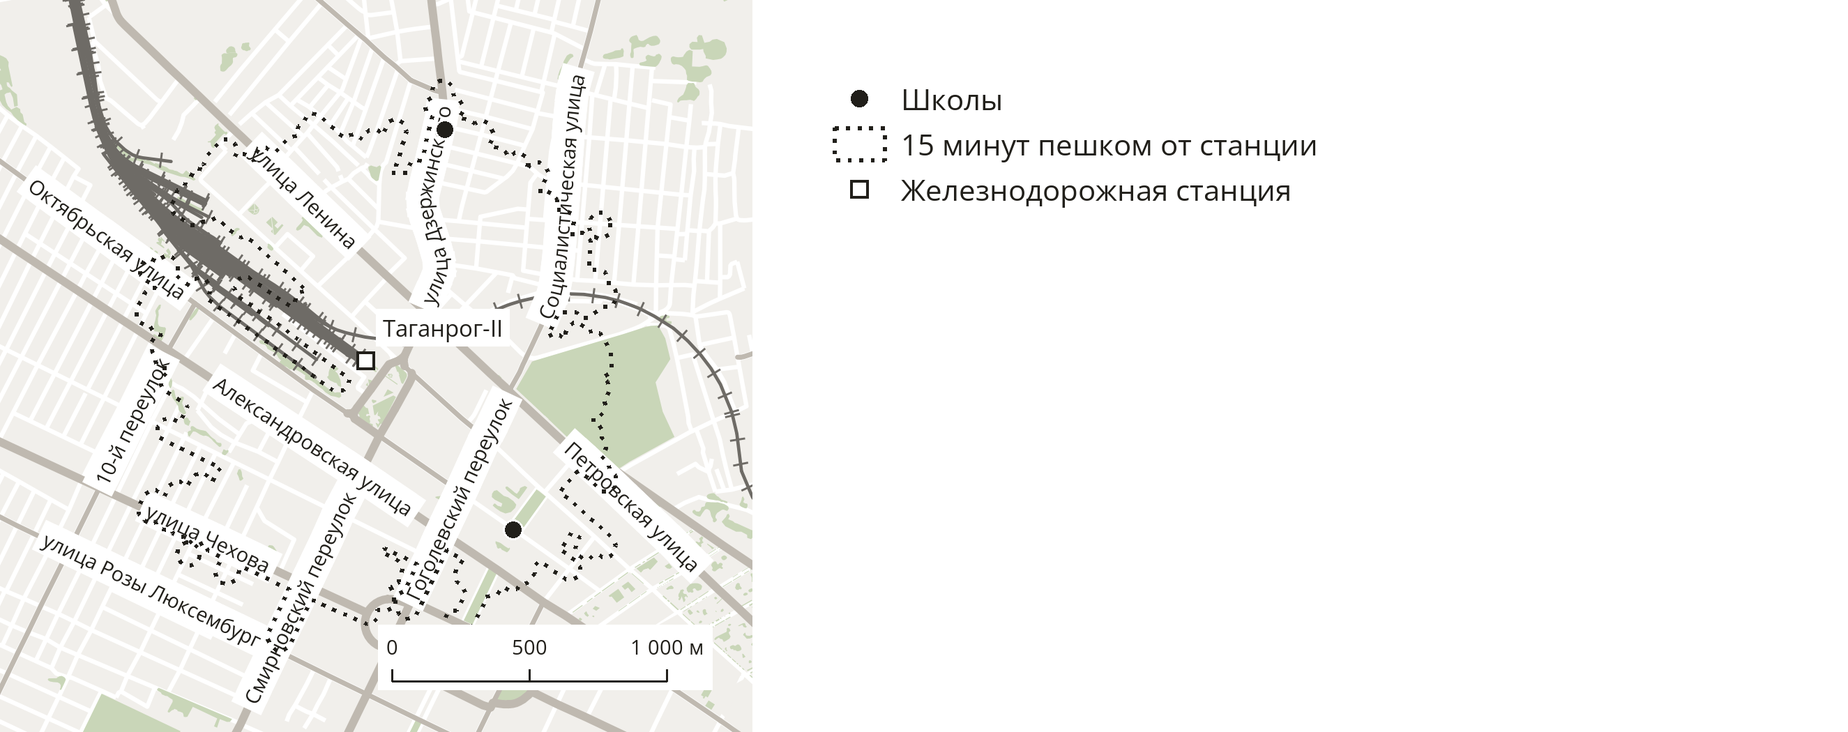
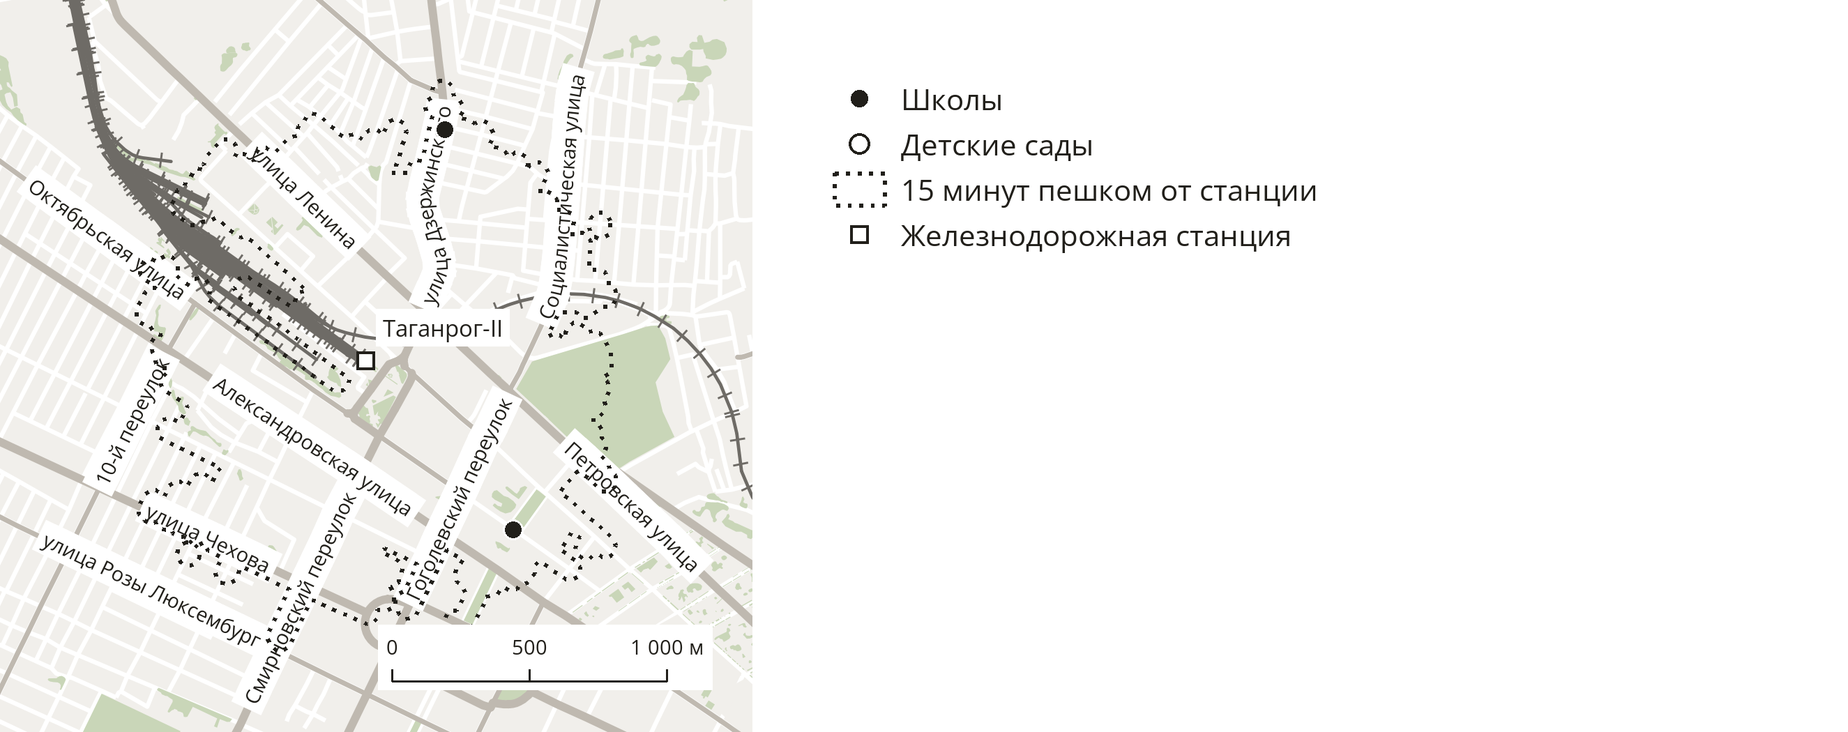
render: группа сравнения compare_with с общей легендой; образцы К1 пересобраны; К-026
Claude-Session: https://claude.ai/code/session_01LqHvzMiJYhgwxQuRYwbGJA

Changed region(s): [[0.4642, 0.3048, 0.7117, 0.3352], [0.4642, 0.2438, 0.7117, 0.2743], [0.4642, 0.1829, 0.7117, 0.2133]]

diff --git a/cm_carto/render/build.py b/cm_carto/render/build.py
@@ -231,6 +231,34 @@ def image_schema() -> dict:
     return json.loads(paths.schema("image").read_text(encoding="utf-8"))
 
 
+def frame(spec: Spec) -> QgsRectangle:
+    """Охват карты в системе координат проекта: центр, масштаб и размер места."""
+    cx, cy = spec.center
+    half_w, half_h = spec.size_mm[0] * spec.scale / 2000, spec.size_mm[1] * spec.scale / 2000
+    return QgsRectangle(cx - half_w, cy - half_h, cx + half_w, cy + half_h)
+
+
+def legend(spec: Spec, std: dict, drawn: list[Drawn]) -> list[tuple[Role, dict, list[tuple[str, str]]]]:
+    """Строки легенды: роли уровней с legend: true, нарисованные на этой карте или на соседней карте сравнения
+    (compare_with), в порядке стандарта; у ролей с категориями — категории, встреченные на картах группы, в порядке
+    стиля. У соседей — тот же отбор по их охвату, без отрисовки. Строки у карт группы одни и те же."""
+    shown = [d for d in drawn if std["levels"][d.role.level]["legend"]]
+    for other in spec.group:
+        rect = frame(other)
+        found = [vector(other, std, role, rect) for role in other.roles if std["levels"][role.level]["legend"]]
+        shown += [d for d in found if d.rows]
+    rows = []
+    for role in spec.roles:
+        mine = [d for d in shown if d.role.key == role.key]
+        if not mine:
+            continue
+        values = {value for d in mine for value, _ in d.categories()}
+        renderer = mine[0].layer.renderer()
+        categories = [(c.value(), c.label()) for c in renderer.categories() if c.value() in values] if values else []
+        rows.append((role, mine[0].spec, categories))
+    return rows
+
+
 def draw(spec: Spec, folder: Path) -> None:
     """Рендер в папку кеша: подложка PNG, provenance подложки, overlay.json."""
     start()
@@ -240,9 +268,7 @@ def draw(spec: Spec, folder: Path) -> None:
     project.setCrs(QgsCoordinateReferenceSystem.fromWkt(spec.project.crs.to_wkt()))
     layout = template(project, paths.qgis_styles() / f"map_{spec.place}.qpt")
     item = layout.itemById("map")
-    cx, cy = spec.center
-    half_w, half_h = spec.size_mm[0] * spec.scale / 2000, spec.size_mm[1] * spec.scale / 2000
-    rect = QgsRectangle(cx - half_w, cy - half_h, cx + half_w, cy + half_h)
+    rect = frame(spec)
 
     drawn = []
     for role in spec.roles:
@@ -276,7 +302,8 @@ def draw(spec: Spec, folder: Path) -> None:
     entries = {d.role.key: layer_entry(d) for d in drawn if d.role.level != "basemap"}
     bounds = (rect.xMinimum(), rect.yMinimum(), rect.xMaximum(), rect.yMaximum())
     obstacles = basemap_labels(item, rect, spec, std["export"]["dpi"])
-    data, unplaced = overlay.build(spec, std, style, drawn, entries, north, layout, bounds, spec.out.name, obstacles)
+    data, unplaced = overlay.build(spec, std, style, drawn, legend(spec, std, drawn), entries, north, layout, bounds,
+                                   spec.out.name, obstacles)
     for text in unplaced:
         print(f"{spec.path.name}: подпись не встала без наездов: {text}")
     (folder / spec.overlay_out.name).write_text(overlay.dumps(data), encoding="utf-8")
@@ -284,12 +311,13 @@ def draw(spec: Spec, folder: Path) -> None:
 
 
 def cache_key(spec: Spec) -> str:
-    """Хэш всего, от чего зависит результат: описание, анкета, геопакет, токены и стили верстки, контракт, код."""
+    """Хэш всего, от чего зависит результат: описание, анкета, геопакет (и у соседних карт сравнения — их легенда
+    зависит от соседей), токены и стили верстки, контракт, код."""
     digest = hashlib.sha256()
     design = [paths.design() / "tokens" / "map.yaml", paths.design() / "tokens" / "style.yaml",
               *sorted(p for p in paths.qgis_styles().iterdir() if p.is_file())]
-    for path in [spec.path, spec.project.root / "project.yaml", spec.data, *design, paths.schema("image"),
-                 paths.schema("overlay"), *CODE]:
+    inputs = [path for s in [spec, *spec.group] for path in (s.path, s.project.root / "project.yaml", s.data)]
+    for path in [*inputs, *design, paths.schema("image"), paths.schema("overlay"), *CODE]:
         digest.update(path.name.encode())
         digest.update(hashlib.sha256(path.read_bytes()).digest())
     digest.update(Qgis.version().encode())

diff --git a/tests/test_render_map.py b/tests/test_render_map.py
@@ -277,3 +277,49 @@ def test_within_unknown_object_is_refused(project):
     layers["point_1"]["within"] = "isochrones:walk-99"
     with pytest.raises(ValueError, match="объект isochrones:walk-99: в project.gpkg найдено 0, нужен один"):
         build.render(describe(project, "unknown", layers=layers))
+
+
+def compare_pair(project, prefix: str, **changes_b) -> tuple:
+    """Две карты сравнения: у a сады в охвате есть, у b отбор садов пустой; compare_with друг на друга."""
+    layers = yaml.safe_load(describe(project).read_text(encoding="utf-8"))["layers"]
+    layers["point_2"] = {"layer": "poi_education", "where": "poi_type = 'kindergarten'", "title": "Детские сады"}
+    empty = {**layers, "point_2": {**layers["point_2"], "where": "poi_type = 'kindergarten' AND name = 'нет'"}}
+    a = describe(project, f"{prefix}a", layers=layers, compare_with=[f"{prefix}b.yaml"])
+    b = describe(project, f"{prefix}b", layers=empty, compare_with=[f"{prefix}a.yaml"], **changes_b)
+    return a, b
+
+
+def test_compare_group_shares_legend(project):
+    """Сравнение: у b садов 0, но строка «Детские сады» в легенде обеих карт; строки легенды — байт в байт."""
+    for path in compare_pair(project, "cmp-"):
+        build.render(path)
+    a, b = side(project, "cmp-a", ".overlay.json"), side(project, "cmp-b", ".overlay.json")
+    assert "point_2" in [item["id"] for item in a["layers"]]
+    assert "point_2" not in [item["id"] for item in b["layers"]]
+    assert "Детские сады" in [row["text"] for row in layer(b, "legend")["legend"]]
+    text = {name: (project / "maps" / f"cmp-{name}.overlay.json").read_text(encoding="utf-8") for name in "ab"}
+    legend = {name: text[name][text[name].index('"legend": ['):].split("]", 1)[0] for name in "ab"}
+    assert legend["a"] == legend["b"]
+
+
+def test_compare_group_scale_mismatch_is_refused(project):
+    a, _ = compare_pair(project, "scale-", scale=20000)
+    with pytest.raises(ValueError, match="сравнение с scale-b.yaml: масштаб 10000 против 20000"):
+        build.render(a)
+
+
+def test_compare_group_repeat_is_byte_identical_and_follows_neighbor(project, tmp_path, capsys, monkeypatch):
+    """Карта группы в двух процессах — байт в байт; смена описания соседа — новая сборка, не кеш."""
+    a, b = compare_pair(project, "rep-")
+    outputs = []
+    for run in ("1", "2"):
+        subprocess.run([sys.executable, "-c", RENDER, str(tmp_path / f"cache{run}"), str(a)], check=True)
+        outputs.append([(project / "maps" / f"rep-a{suffix}").read_bytes() for suffix in (".png", ".overlay.json")])
+    assert outputs[0] == outputs[1]
+    monkeypatch.setattr(build, "CACHE", tmp_path / "cache1")
+    build.render(a)
+    assert "из кеша" in capsys.readouterr().out
+    b.write_text(b.read_text(encoding="utf-8").replace("Школы у границы", "Школы у границы, вариант"),
+                 encoding="utf-8")
+    build.render(a)
+    assert "из кеша" not in capsys.readouterr().out

diff --git a/cm_carto/render/overlay.py b/cm_carto/render/overlay.py
@@ -219,17 +219,18 @@ class Overlay:
 
     # Служебные слои
 
-    def legend_layer(self, drawn: list, entries: dict) -> dict:
-        """Строки легенды: роли уровней с legend: true в порядке стандарта; категории — встреченные на карте."""
+    def legend_layer(self, items: list, entries: dict) -> dict:
+        """Строки легенды: items — (роль, роль map.yaml, категории) в порядке стандарта (build.legend: у карт
+        сравнения — общие на группу); у роли с категориями — строка на категорию."""
         rows = []
-        for d in (d for d in drawn if self.std["levels"][d.role.level]["legend"]):
-            kind = d.spec["geometry"]
-            if d.role.key == "zoning":
-                rows += [{"role": f"zoning.{value}", "kind": kind, "text": title} for value, title in d.categories()]
+        for role, spec_role, categories in items:
+            kind = spec_role["geometry"]
+            if role.key == "zoning":
+                rows += [{"role": f"zoning.{value}", "kind": kind, "text": title} for value, title in categories]
                 continue
-            row = {"role": d.role.key, "kind": kind, "text": d.role.title}
+            row = {"role": role.key, "kind": kind, "text": role.title}
             if kind == "point":
-                row["symbol"] = d.spec["marker"]["shape"]
+                row["symbol"] = spec_role["marker"]["shape"]
             rows.append(row)
         rule = self.std["legend"]
         if not rows:
@@ -349,16 +350,16 @@ class Overlay:
         return list(reversed(layers))
 
 
-def build(spec, std: dict, style: dict, drawn: list, entries: dict, north: bool, layout, rect, basemap: str,
-          basemap_labels: list) -> tuple[dict, list[str]]:
-    """overlay.json по контракту и подписи, которые не встали без наездов. basemap_labels — рамки подписей
-    подложки в мм: подписи overlay их не задевают."""
+def build(spec, std: dict, style: dict, drawn: list, legend_items: list, entries: dict, north: bool, layout, rect,
+          basemap: str, basemap_labels: list) -> tuple[dict, list[str]]:
+    """overlay.json по контракту и подписи, которые не встали без наездов. legend_items — строки легенды
+    (build.legend); basemap_labels — рамки подписей подложки в мм: подписи overlay их не задевают."""
     data = [d for d in drawn if d.role.level != "basemap"]
     o = Overlay(spec, std, style, layout, rect)
     o.obstacles += [box(*r) for r in basemap_labels]
     layers = o.data_layers(data, entries)
     service = [o.scale_bar_layer()] + ([o.north_layer()] if north else [])
-    legend = o.legend_layer(data, entries)
+    legend = o.legend_layer(legend_items, entries)
     labels = o.label_layers(data, entries)
     xmin, ymin, xmax, ymax = rect
     doc = {"basemap": basemap,

diff --git a/cm_carto/render/spec.py b/cm_carto/render/spec.py
@@ -6,7 +6,7 @@
 
 import json
 import math
-from dataclasses import dataclass
+from dataclasses import dataclass, field, replace
 from functools import cache
 from pathlib import Path
 
@@ -67,6 +67,7 @@ class Spec:
     title: str | None
     fact_ids: list[str]
     out: Path
+    group: list["Spec"] = field(default_factory=list)  # соседние карты сравнения (compare_with), без своих групп
 
     @property
     def overlay_out(self) -> Path:
@@ -102,6 +103,29 @@ def find(path: Path, data: Path, present: set[str], object_id: str) -> shapely.G
 
 
 def load(path: Path) -> Spec:
+    """Описание карты и, если задано compare_with, карты ее группы сравнения с проверкой единства группы."""
+    spec = read(path)
+    if "compare_with" not in spec.raw:
+        return spec
+    group = [spec, *(read(spec.path.parent / other) for other in spec.raw["compare_with"])]
+    members = sorted(str(s.path) for s in group)
+    for other in group[1:]:
+        own = sorted(str(p) for p in [other.path, *((other.path.parent / o).resolve()
+                                                     for o in other.raw.get("compare_with", []))])
+        if own != members:
+            raise ValueError(f"{spec.path}: группа сравнения {', '.join(members)}, у {other.path.name} — "
+                             f"{', '.join(own)}: compare_with у карт группы должны называть друг друга")
+        for name, mine, theirs in [("место", spec.place, other.place), ("масштаб", spec.scale, other.scale),
+                                   ("ширина легенды", spec.legend, other.legend),
+                                   ("роли", [(r.key, r.title) for r in spec.roles],
+                                    [(r.key, r.title) for r in other.roles])]:
+            if mine != theirs:
+                raise ValueError(f"{spec.path}: сравнение с {other.path.name}: {name} {mine} против {theirs} — "
+                                 f"у карт сравнения одно место, один масштаб, одна легенда (MAPS.md, разделы 6, 9)")
+    return replace(spec, group=group[1:])
+
+
+def read(path: Path) -> Spec:
     path = Path(path).resolve()
     raw = yaml.safe_load(path.read_text(encoding="utf-8"))
     errors = [f"{'/'.join(map(str, e.absolute_path)) or '.'}: {e.message}"

diff --git a/reports/agents/render-dev.md b/reports/agents/render-dev.md
@@ -245,3 +245,31 @@ $ scripts/run.sh python -m pytest -q
 - pytest: 123 passed.
 - Повтор сборки в новом процессе с пустым кешем — все PNG, overlay, provenance и превью байт в байт.
 - Сборка, как в заходе 3, с пробной схемой `image` (`CM_CONTRACTS=_build/contracts-image-reference`), до image 1.1.0.
+
+# Заход 5: одна легенда на карты сравнения
+
+## Что сделано
+
+| Путь | Что |
+|---|---|
+| `schema/map.schema.json` | поле `compare_with: [<описание.yaml>, ...]` (пути от описания) — карты одной группы сравнения |
+| `cm_carto/render/spec.py` | `load` читает соседей (`read` — одно описание) и проверяет: группа взаимная (у каждого соседа `compare_with` называет тот же состав), одно место, один масштаб, одна ширина легенды, один набор ролей с теми же `title`; иначе ошибка «сравнение с <сосед>: масштаб 30000 против 20000 — …». `Spec.group` — соседи |
+| `cm_carto/render/build.py` | `frame` — охват карты; `legend` — строки легенды: роли, нарисованные на этой карте или у соседа (у соседа — тот же отбор `vector` по его охвату и `within`, без отрисовки), в порядке стандарта; у `zoning` — объединение категорий в порядке стиля. Кеш: описание, анкета и геопакет соседей — во входе ключа |
+| `cm_carto/render/overlay.py` | `legend_layer` строит строки из готового списка ролей (`build.legend`), а не из нарисованного на своей карте |
+| `examples/taganrog/maps/k1-compare-{a,b}.yaml` | `compare_with` друг на друга |
+| `tests/test_render_map.py` | +3: у b садов 0, а строка «Детские сады» в легенде обеих, блок `legend` в двух overlay совпадает байт в байт; разный масштаб в группе — ошибка; карта группы в двух процессах — байт в байт, смена описания соседа — новая сборка, не кеш |
+
+## Центр по object_id
+
+Уже центр охвата (bbox), не центроид (`spec.py`, ветка `center`). Проверка на образце: изохрона «Таганрог-II» (2078 м по высоте) на 1:30 000 в overlay от y = 9,83 до 79,08 мм при высоте места 88,9 мм — поля сверху и снизу по 9,8 мм, края места не касается. Центроид смещен от центра охвата на 23 м по y — на 1:30 000 это 0,8 мм, так что «касание края» не от центра.
+
+## Образцы
+
+Сборка, как прежде, с пробной схемой `image` (`CM_CONTRACTS=_build/contracts-image-reference`). Изменились только `k1-compare-a.overlay.json` и превью a: добавилась строка «Детские сады». У b и остальных карт файлы те же байт в байт.
+- легенда обеих карт: Школы, Детские сады, 15 минут пешком от станции, Железнодорожная станция; блоки `legend` совпадают (`diff` пуст);
+- счет: a — школ 2, садов 0; b — школ 7, садов 2;
+- не встали подписи: a — две школы («Средняя общеобразовательная школа 21», «Гимназия 2 им. Чехова»), b — станция «Таганрог-Пассажирский».
+
+## Проверки
+
+- pytest: 129 passed.

diff --git a/DECISIONS.md b/DECISIONS.md
@@ -124,3 +124,7 @@
 ## К-025. Рендер: подложка и overlay, подписи расставляет картограф
 
 11.10.2026. Развитие К-018 по контракту overlay 1.0.0. Один проход по описанию карты — два выхода: `<карта>.png` (роли уровня `basemap` со своими подписями, без линейки, севера и легенды) с `provenance.json` только о подложке; `<карта>.overlay.json` (проверка по схеме контракта при каждой сборке). Превью (`--preview`, Pillow, цвета из токенов) — только для проверки. Отдельная легенда-картинка не выпускается. Подписи объектов расставляет картограф: правило по стилю роли, без наездов на другие подписи, знаки, границу территории, линейку, легенду, край места и подписи подложки (рамки берутся из движка подписей QGIS); не встала — выноска `leader_to`; не встала и так — в лог. Статус подложки — самый слабый у ее слоев; `reference` — ошибка до `image` 1.1.0 (образцы К1 собраны с пробной копией схемы и в альбом не идут).
+
+## К-026. Сравнение — группа карт с одной легендой
+
+11.10.2026. Карты сравнения связываются полем `compare_with` в описании: при загрузке проверяется, что группа взаимная, место, масштаб, ширина легенды и роли с подписями одни. Легенда каждой карты группы — роли, нарисованные хотя бы на одной карте группы (`MAPS.md`, 6 и 9: одна легенда на все карты); блоки `legend` в overlay совпадают байт в байт. Образец К1: 15 минут пешком от двух станций, 1:30 000 (на 10 минутах счет 0 и 0 — сравнивать нечего).
